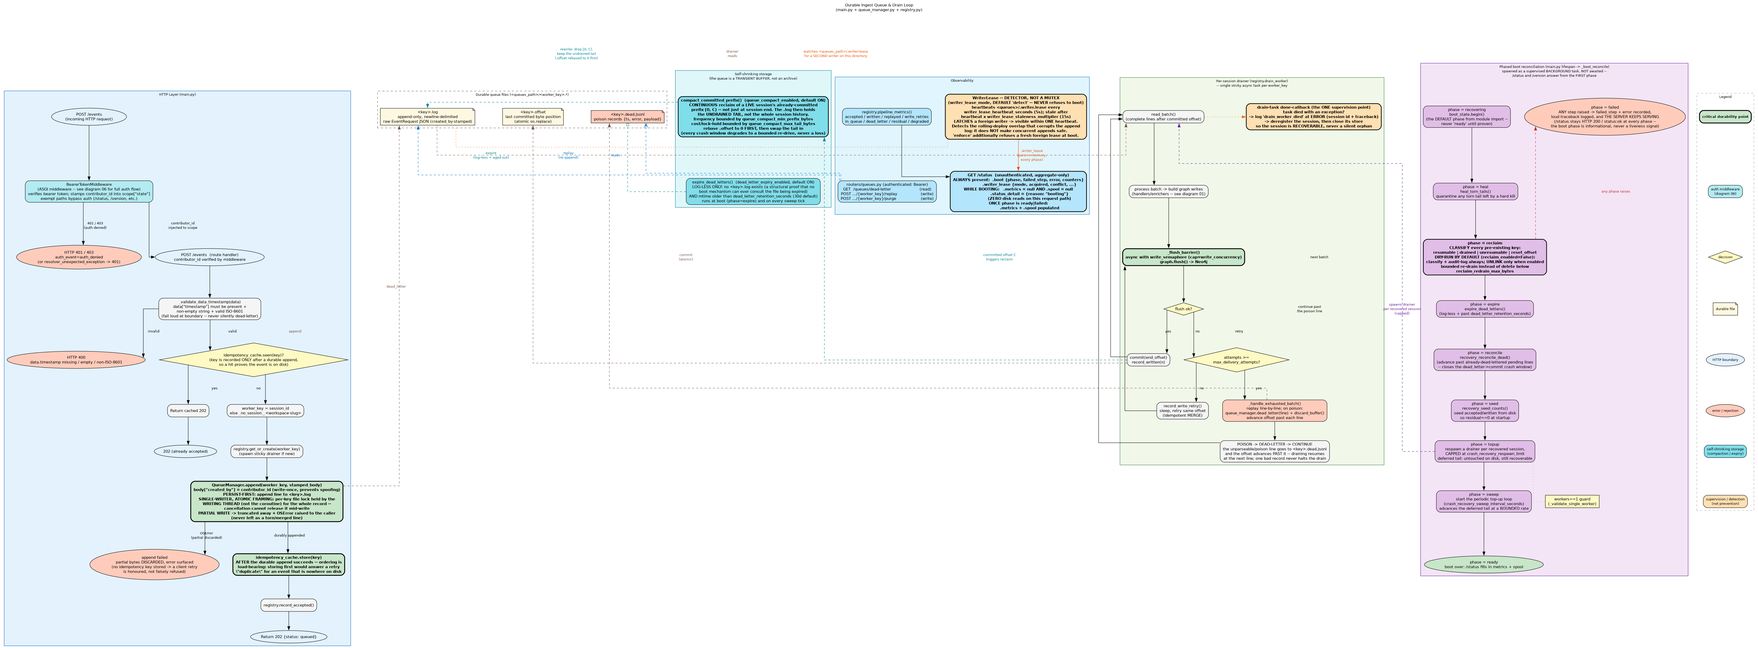
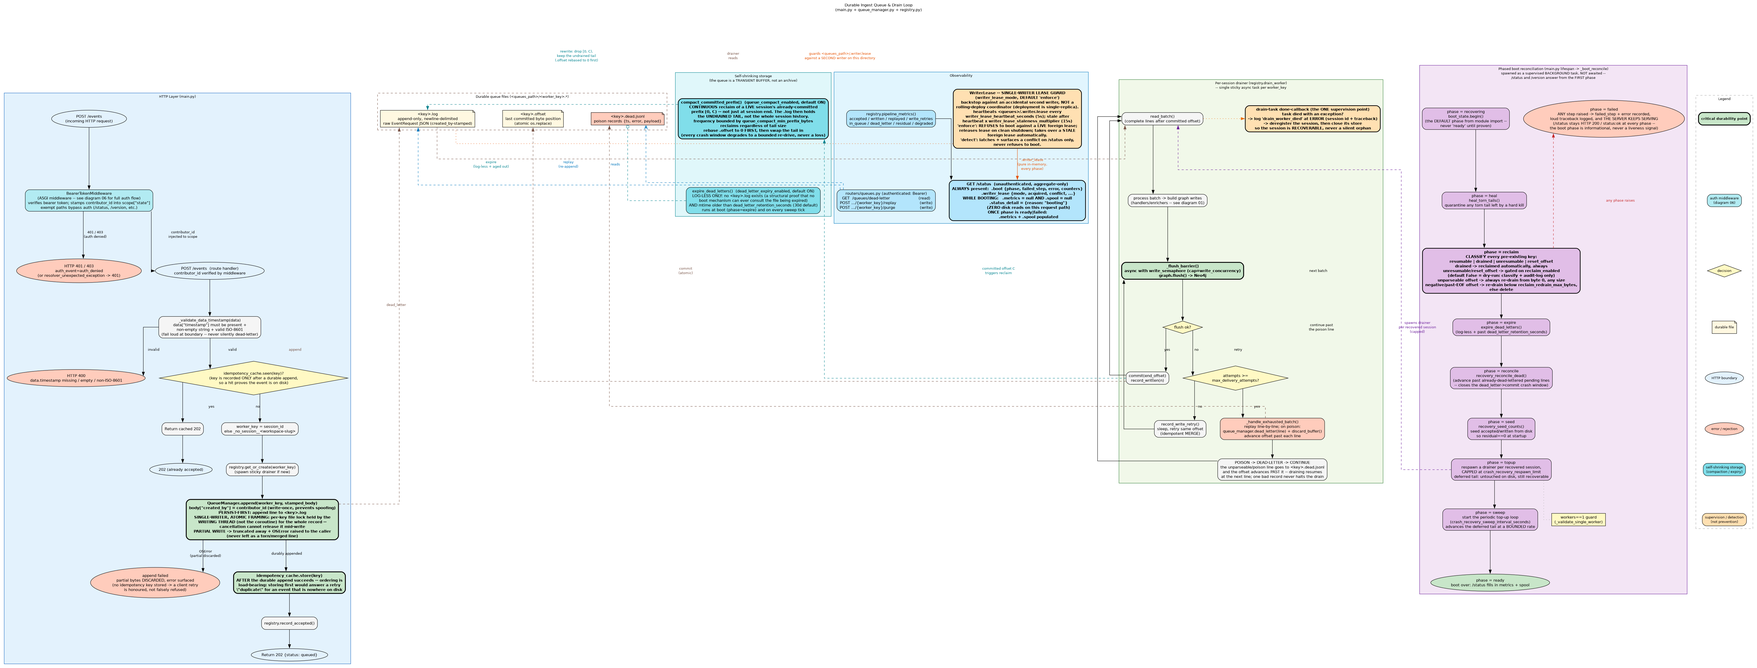
docs: align docs and ingest-queue diagram with shipped behavior
- writer lease documented as enforce-by-default single-writer guard (refuses a live foreign writer, releases on clean shutdown, takes over a stale lease); drop the detect-default / "do not enable enforce" guidance
- remove references to the removed /queues/gc operator endpoints
- fully-drained logs are reclaimed automatically at boot; unresumable/reset-offset actions remain gated on reclaim_enabled
- correct offset handling: an unparseable offset re-drains from byte 0 at any size, never deleted
- drop the removed compaction tail-size cap; regenerate 05-durable-ingest-queue.png

🤖 Generated with [Amplifier](https://github.com/microsoft/amplifier)

diff --git a/README.md b/README.md
@@ -330,7 +330,7 @@ Full runtime onboarding/offboarding runbook and the `/admin/*` API:
 | Method | Path | Description |
 |--------|------|-------------|
 | `POST` | `/events` | Ingest a session event (returns 202 immediately) |
-| `GET` | `/status` | Server health, active sessions, completed history, error counts, `neo4j_connected`, `neo4j_query_connected` (reflects the read/cypher_query driver's connection health), `neo4j_url`, `neo4j_browser_url`, plus `boot` (boot-reconciliation phase + counters), `writer_lease` (queue-directory writer-lease detector), `spool` (aggregate spool footprint) and `metrics` (aggregate conservation counters). `boot` and `writer_lease` are always present; **`metrics` and `spool` are `null` while the server is still booting**, and `status_detail` is then `{"reason": "booting"}`. HTTP `200` and `status: "ok"` at every boot phase — the boot phase is informational, never a liveness signal |
+| `GET` | `/status` | Server health, active sessions, completed history, error counts, `neo4j_connected`, `neo4j_query_connected` (reflects the read/cypher_query driver's connection health), `neo4j_url`, `neo4j_browser_url`, plus `boot` (boot-reconciliation phase + counters), `writer_lease` (queue-directory single-writer lease guard), `spool` (aggregate spool footprint) and `metrics` (aggregate conservation counters). `boot` and `writer_lease` are always present; **`metrics` and `spool` are `null` while the server is still booting**, and `status_detail` is then `{"reason": "booting"}`. HTTP `200` and `status: "ok"` at every boot phase — the boot phase is informational, never a liveness signal |
 | `GET` | `/version` | Server version (`{"version": "..."}`) — always unauthenticated |
 | `GET` | `/docs` | Swagger UI — always on (auth-exempt) |
 | `GET` | `/openapi.json` | OpenAPI spec — always on (auth-exempt) |
@@ -421,17 +421,17 @@ Values are resolved with this priority (highest first):
 | `AMPLIFIER_CONTEXT_INTELLIGENCE_SERVER_CRASH_RECOVERY_RESPAWN_LIMIT` | `crash_recovery_respawn_limit` | `8` | **Behaviour change for existing installs — this default was previously unbounded.** Ceiling on how many recovered sessions get a drainer respawned per boot/sweep pass. The remainder is *deferred*: left untouched on disk, still durable, and drained by a later sweep pass or the moment a new event for that session arrives. Deferral is never silent (a `WARNING` names the respawned/deferred counts). `null` restores unbounded; `0` disables automatic respawn at boot. Negative values are a hard startup error. |
 | `AMPLIFIER_CONTEXT_INTELLIGENCE_SERVER_CRASH_RECOVERY_SWEEP_INTERVAL_SECONDS` | `crash_recovery_sweep_interval_seconds` | `60` | **Behaviour change for existing installs — this default was previously 300.** Interval at which the deferred backlog is re-scanned and the recovered-drainer pool topped back up to the ceiling. Only runs when `crash_recovery_respawn_limit` is finite — change the two together or neither. `0` disables the sweep (the deferred tail then drains only on restart or on a new event). |
 | `AMPLIFIER_CONTEXT_INTELLIGENCE_SERVER_RECLAIM_ENABLED` | `reclaim_enabled` | `false` | Whether the boot-time reclaim pass may actually delete / reset anything. **Ships disabled**: boot still classifies every pre-existing queue key and logs the same audit line with `action=dry_run`, but nothing is unlinked. Boot once with this off, read the reclaim summary in the logs, reconcile it against expectations, then opt in. Surfaced on `/status` as `boot.reclaim_enabled`. |
-| `AMPLIFIER_CONTEXT_INTELLIGENCE_SERVER_RECLAIM_REDRAIN_MAX_BYTES` | `reclaim_redrain_max_bytes` | `67108864` (64 MiB) | Size ceiling under which a `.log` with an unusable `.offset` (unparseable, negative, past-EOF) is **re-drained from byte 0** instead of deleted — bounded, and idempotent by construction, so re-driving costs nothing. At or above the ceiling the `.log` is deleted instead. `0` means always delete. |
+| `AMPLIFIER_CONTEXT_INTELLIGENCE_SERVER_RECLAIM_REDRAIN_MAX_BYTES` | `reclaim_redrain_max_bytes` | `67108864` (64 MiB) | Size ceiling for a `.log` with a **negative or past-EOF** `.offset`: below the ceiling it is **re-drained from byte 0** instead of deleted — bounded, and idempotent by construction, so re-driving costs nothing. At or above the ceiling the `.log` is deleted instead. `0` means always delete. An **unparseable** `.offset` is a separate case and always re-drains from byte 0 at any size — never deleted. |
 | `AMPLIFIER_CONTEXT_INTELLIGENCE_SERVER_QUEUE_COMPACT_ENABLED` | `queue_compact_enabled` | `true` | Continuously reclaim a live session's already-committed prefix, so a `.log` holds the undrained tail rather than the whole session history. Turning it off is a config change + restart (a kill switch, not a live toggle). |
 | `AMPLIFIER_CONTEXT_INTELLIGENCE_SERVER_QUEUE_COMPACT_MIN_PREFIX_BYTES` | `queue_compact_min_prefix_bytes` | `8388608` (8 MiB) | Bounds compaction **frequency** on a continuously busy session: below this many committed bytes the rewrite is skipped. The idle path closes the remaining gap for free the moment the session goes quiet. `0` is a valid explicit opt-out; negative is a hard startup error. |
 | `AMPLIFIER_CONTEXT_INTELLIGENCE_SERVER_DEAD_LETTER_EXPIRY_ENABLED` | `dead_letter_expiry_enabled` | `true` | Expire dead-letter files that have **no `.log` beside them** once they age past the retention window below. Deliberately independent of `reclaim_enabled`: the predicate here is two plain filesystem facts, not a heuristic classification. |
 | `AMPLIFIER_CONTEXT_INTELLIGENCE_SERVER_DEAD_LETTER_RETENTION_SECONDS` | `dead_letter_retention_seconds` | `2592000.0` (30 days) | How long a log-less `.dead.jsonl` survives (by mtime) before expiry — long enough to notice it via `GET /queues/dead-letter` and purge or replay it, short enough that it cannot accumulate forever. `<= 0` disables expiry outright; negative is a hard startup error. |
-| `AMPLIFIER_CONTEXT_INTELLIGENCE_SERVER_WRITER_LEASE_MODE` | `writer_lease_mode` | `detect` | Writer-lease detector for the queue directory. `detect` (default) acquires the lease best-effort, heartbeats it, and latches + surfaces a conflict on `/status.writer_lease` — but **never refuses to boot**. `enforce` additionally refuses to boot against a fresh foreign lease. `off` disables the detector. See [docs/operational-hardening.md](docs/operational-hardening.md) — **leave this at `detect`**; `enforce` is present but not yet cleared for use. |
-| `AMPLIFIER_CONTEXT_INTELLIGENCE_SERVER_WRITER_LEASE_HEARTBEAT_SECONDS` | `writer_lease_heartbeat_seconds` | `5.0` | Lease renew + re-read interval. Sets the detection latency: a conflict becomes visible on `/status` within one heartbeat. Must be `> 0`. |
+| `AMPLIFIER_CONTEXT_INTELLIGENCE_SERVER_WRITER_LEASE_MODE` | `writer_lease_mode` | `enforce` | Single-writer lease guard for the queue directory — a backstop against an accidental second writer, not a rolling-deploy coordinator (deployment is single-replica). `enforce` (default) **refuses to boot** against a *live* foreign lease, releases the lease on clean shutdown so a restart reacquires immediately, and takes over a *stale* foreign lease automatically once it ages past the staleness window. `detect` acquires the lease best-effort, heartbeats it, and only surfaces a conflict on `/status.writer_lease` — it never refuses to boot. `off` disables the guard. See [docs/operational-hardening.md](docs/operational-hardening.md). |
+| `AMPLIFIER_CONTEXT_INTELLIGENCE_SERVER_WRITER_LEASE_HEARTBEAT_SECONDS` | `writer_lease_heartbeat_seconds` | `5.0` | Lease renew + re-read interval. Under `detect`, sets how fast a conflict becomes visible on `/status` (within one heartbeat); under `enforce`, sets how fast a foreign takeover is noticed. Must be `> 0`. |
 | `AMPLIFIER_CONTEXT_INTELLIGENCE_SERVER_WRITER_LEASE_STALENESS_MULTIPLIER` | `writer_lease_staleness_multiplier` | `3.0` | Staleness window = heartbeat x this (15.0s at defaults). Must survive two consecutive missed ticks without a false "stale" verdict, so values **below `2.0` are a hard startup error**. |
 | `AMPLIFIER_CONTEXT_INTELLIGENCE_SERVER_WRITER_LEASE_CONFIRM_DELAY_SECONDS` | `writer_lease_confirm_delay_seconds` | `1.0` | Settle delay between writing the lease and the confirming re-read, to exceed write→other-reader visibility latency on a shared SMB mount. Must be `>= 0`. |
-| `AMPLIFIER_CONTEXT_INTELLIGENCE_SERVER_WRITER_LEASE_ACQUIRE_TIMEOUT_SECONDS` | `writer_lease_acquire_timeout_seconds` | `5.0` | Hard bound on an entire acquire (and, per tick, an entire renew), so a hung mount can never block startup or wedge the heartbeat. **Must exceed `writer_lease_confirm_delay_seconds`** — otherwise every acquire would time out and silently disarm the detector, so that combination is a hard startup error. |
-| `AMPLIFIER_CONTEXT_INTELLIGENCE_SERVER_WRITER_LEASE_FORCE_ACQUIRE` | `writer_lease_force_acquire` | `false` | One-boot operator escape hatch: take over a **fresh** foreign lease instead of refusing (`enforce`) or merely latching (`detect`). Logs a `WARNING` on every boot while set and is surfaced on `/status.writer_lease`, so leaving it on by accident is never silent. |
+| `AMPLIFIER_CONTEXT_INTELLIGENCE_SERVER_WRITER_LEASE_ACQUIRE_TIMEOUT_SECONDS` | `writer_lease_acquire_timeout_seconds` | `5.0` | Hard bound on an entire acquire (and, per tick, an entire renew), so a hung mount can never block startup or wedge the heartbeat. **Must exceed `writer_lease_confirm_delay_seconds`** — otherwise every acquire would time out and silently disarm the guard, so that combination is a hard startup error. |
+| `AMPLIFIER_CONTEXT_INTELLIGENCE_SERVER_WRITER_LEASE_FORCE_ACQUIRE` | `writer_lease_force_acquire` | `false` | One-boot operator escape hatch: take over a **fresh** (non-stale) foreign lease instead of refusing (`enforce`) or merely latching (`detect`). Logs a `WARNING` on every boot while set and is surfaced on `/status.writer_lease`, so leaving it on by accident is never silent. |
 | `AMPLIFIER_CONTEXT_INTELLIGENCE_SERVER_LOG_PATH` | `log_path` | `/data/logs/server.jsonl` | Structured log file path |
 | `AMPLIFIER_CONTEXT_INTELLIGENCE_SERVER_LOG_LEVEL` | `log_level` | `INFO` | Log level (`DEBUG`/`INFO`/`WARNING`/`ERROR`) |
 | `AMPLIFIER_CONTEXT_INTELLIGENCE_SERVER_SERVER_HOST` | `server_host` | `0.0.0.0` | Bind host |

diff --git a/docs/operational-hardening.md b/docs/operational-hardening.md
@@ -351,7 +351,7 @@ runs out of memory. It guarantees the failure is **bounded and attributable**:
 | `StartLimitIntervalSec` / `StartLimitBurst` | An infinite restart loop burning CPU for days | The underlying failure — the unit stops in `failed` state and **stays down** until you fix it |
 | `write_concurrency: 4` | A backlog drain thundering Neo4j's transaction-memory ceiling | A backlog from forming in the first place |
 | Compaction + dead-letter expiry (on by default) | A *drained* session's bytes and orphaned poison records living on disk forever; a `.log` growing to the size of the whole session | **Undrained** data growing — a stalled drainer's tail is exactly what must not be touched; compaction shrinks nothing there |
-| Writer-lease detector (§8) | A rolling deploy silently running two writers on one queue directory with **no signal at all** | The corruption itself — it is a detector with a staleness tolerance, not a mutex. It makes the overlap visible, not safe |
+| Writer-lease guard (§8) | A second process (accidental/misconfigured, not a rolling deploy — deployment is single-replica) silently writing the same queue directory | Nothing left to prevent by default: `enforce` refuses to boot against a live foreign lease. A stale lease (holder gone) is taken over automatically after the staleness window |
 
 The point of every one of them is the same: convert a silent, unbounded,
 self-perpetuating failure into a loud, bounded, one-shot one that shows up in
@@ -366,26 +366,26 @@ restarts.**
 
 ---
 
-## 8. Writer-lease conflicts during a rolling deploy
+## 8. Writer-lease guard
 
-The durable append log is correct because **exactly one process writes the queue
-directory**, with per-key locking inside that process. A rolling or blue/green
-revision swap can briefly run the old and new revisions against the **same**
-mounted `/data`, and for that overlap the guarantee is void — torn or merged
-append lines can reappear with no signal whatsoever. That silence is what the
-writer lease removes.
+The durable append log is correct because **exactly one process writes the
+queue directory** (deployment is single-replica), with per-key locking inside
+that process serializing every record to one contiguous, newline-terminated
+line or not at all. The writer lease is a backstop against an accidental
+second writer — a stray or misconfigured process pointed at the same `/data`
+— not a rolling-deploy coordinator.
 
-**It is a detector, not a mutex.** Say this plainly to anyone reading
-`/status`: it does not make concurrent writes safe. It makes the overlap
-**visible** within one heartbeat. It has a staleness tolerance (heartbeat x
-multiplier — 15s at defaults), so two processes *can* both believe they hold the
-lease inside that window, and writes already in flight during an overlap are
-surfaced, not prevented.
+**The default mode is `enforce`.** It refuses to boot against a **live**
+foreign lease, so the second-writer overlap is prevented outright rather than
+merely reported. It releases the lease on clean shutdown, so a restart
+reacquires immediately, and it takes over a **stale** foreign lease
+automatically once the holder's heartbeat ages past the staleness window
+(heartbeat x multiplier — 15s at defaults) — an unclean exit recovers on its
+own after that window instead of crash-looping.
 
-**The default mode is `detect`, and it never refuses to boot.** It acquires the
-lease best-effort, heartbeats it, and latches the conflict onto `/status`.
-Refusing by default would deadlock a rolling deploy outright: the incoming
-revision could never become healthy while the outgoing one is still renewing.
+`detect` acquires the lease best-effort, heartbeats it, and only latches +
+surfaces a conflict on `/status.writer_lease` — it never refuses to boot.
+`off` disables the guard entirely.
 
 ```bash
 curl -s http://localhost:8000/status \
@@ -394,35 +394,29 @@ curl -s http://localhost:8000/status \
 
 | Field | Read it as |
 |-------|-----------|
-| `mode` | `detect` (default) / `enforce` / `off` |
+| `mode` | `enforce` (default) / `detect` / `off` |
 | `acquired` | whether this process currently believes it holds the lease |
-| `conflict` | **the alarm.** `true` = a foreign writer was observed |
+| `conflict` | **the alarm.** `true` = a foreign writer was observed (under `enforce` this means boot was refused; under `detect` it is observe-only) |
 | `conflict_source` | `boot` / `reacquire` / `runtime` — when it was seen (`runtime` = the lease was taken from a running process) |
 | `observed_owner`, `observed_at` | who, and when |
 | `took_over_stale`, `superseded_owner`, `superseded_age_seconds` | a *stale* lease was superseded — normal after an unclean exit, not a conflict |
-| `error` | the detector is **not armed** for this process (share fault, hung mount). Evidence of nothing — never a conflict |
+| `error` | the guard is **not armed** for this process (share fault, hung mount). Evidence of nothing — never a conflict |
 | `force_acquire` | the one-boot escape hatch is still set. Unset it |
-| `heartbeat_seconds`, `staleness_seconds`, `lease_age_seconds` | detection latency and tolerance |
+| `heartbeat_seconds`, `staleness_seconds`, `lease_age_seconds` | heartbeat interval and staleness tolerance |
 
 The matching log lines are `writer_lease_conflict` (ERROR) and, on a stale
 takeover, a `writer_lease` WARNING naming the superseded owner and its age.
 
-**On a conflict:** confirm you are not running two revisions/processes against
-one queue directory (see the single-instance invariant in `AGENTS.md`), and get
-down to one writer. A conflict latches — it stays visible after the overlap ends
-— so treat it as "this happened", and correlate `observed_at` with your deploy
+**On a conflict:** confirm you are not running two processes against one
+queue directory (see the single-instance invariant in `AGENTS.md`), and get
+down to one writer. A conflict latches — it stays visible after the overlap
+ends — so treat it as "this happened", and correlate `observed_at` with your
 timeline rather than assuming it is still happening.
 
-> **Do not enable `enforce`.** The mode exists and works — it additionally
-> refuses to boot against a fresh foreign lease — but turning it on requires a
-> deployed-mount smoke test that measures real cross-host clock skew and
-> write-visibility latency on the actual shared mount, and **that test has not
-> been run**. Until it has, `enforce` risks refusing a legitimate boot on
-> timing alone. Leave `writer_lease_mode: detect`.
->
-> `writer_lease_force_acquire` is likewise a **one-boot** escape hatch for when
-> you are certain the previous writer is gone. It logs a `WARNING` on every boot
-> while set and shows on `/status`; unset it immediately afterwards.
+> `writer_lease_force_acquire` is a **one-boot** escape hatch for when you are
+> certain the previous writer is gone but its lease hasn't gone stale yet. It
+> logs a `WARNING` on every boot while set and shows on `/status`; unset it
+> immediately afterwards.
 
 ---
 

diff --git a/AGENTS.md b/AGENTS.md
@@ -88,12 +88,12 @@ context_intelligence_server/      # FastAPI ingestion server
 ├── neo4j_store.py                # Managed-transaction Neo4j writes
 ├── blob_store.py                 # Async disk blob storage
 ├── idempotency.py                # Request dedupe (seen/store split — a key is stored only AFTER a durable append)
-├── writer_lease.py               # Queue-directory writer-lease DETECTOR (heartbeat + staleness; detect/enforce/off; surfaces on /status.writer_lease)
+├── writer_lease.py               # Single-writer lease guard for the queue directory (heartbeat + staleness; enforce/detect/off, default enforce; surfaces on /status.writer_lease)
 ├── handlers/                     # Event handlers (data_layer_1/2/3)
 │   ├── data_layer_1/             # Session/tool-call handlers
 │   ├── data_layer_2/             # Graph enrichment handlers
 │   └── data_layer_3/             # High-level insight handlers
-├── routers/                      # API routers (queues.py = dead-letter inspect/replay/purge + operator GC: GET /queues/gc preview, POST /queues/gc/apply; admin.py = /admin/* identity-map CRUD; version.py)
+├── routers/                      # API routers (queues.py = dead-letter inspect/replay/purge only \u2014 no operator GC endpoint; admin.py = /admin/* identity-map CRUD; version.py)
 ├── auth.py                       # Bearer-token auth middleware (StaticKeyResolver / EntraResolver via PrincipalResolver; BearerTokenMiddleware; admin-key recognition)
 ├── authz.py                      # Per-route capability gates (require_read / require_write)
 ├── identity_store.py             # Durable JSON identity map (write-file-then-swap, fail-closed load, live flat_dict)
@@ -438,8 +438,8 @@ with admin"). Runtime runbook: `docs/identity-management.md`.
 - **Append framing** — appends to one worker key are serialized by a per-key file lock (`_KeyGuard.file_lock`, held by the writing *thread*, not the coroutine), so a record lands as one contiguous newline-terminated line or not at all; a partial write is discarded and the error raised. The idempotency key is stored **only after** the durable append succeeds (`idempotency.py`: `seen()` / `store()` are separate) so a failed write plus a client retry is honoured, not falsely refused.
 - **Drain supervision** — a drain task's done-callback (`registry.py`) is the single supervision point: a task that dies logs `drain_worker_died` at ERROR with the session id + traceback, deregisters the session, and closes its store. A poison line is dead-lettered and the offset advanced past it, so draining continues.
 - **Boot phases** — boot recovery runs as a supervised background task (`main._boot_reconcile`), so `/status` and `/version` answer from the first phase. `status.BootState` (module singleton `boot_state`) tracks `recovering → heal → reclaim → expire → reconcile → seed → topup → sweep → ready`, or terminates at `failed` — and `failed` keeps serving. The phase is surfaced additively on `/status.boot`; while booting, `/status` does zero disk reads and reports `metrics`/`spool` as `null` with `status_detail.reason == "booting"`.
-- **Self-shrinking queue storage** — a live session's committed prefix is reclaimed continuously (compaction), and log-less dead-letters expire on an mtime window. `GET /queues/gc` (read, preview, never deletes, works during boot) and `POST /queues/gc/apply` (write, 409 until boot is `ready`/`failed`, bounded, per-item re-verified under the key lock) are the operator-facing reclaim path.
-- **Writer lease** — `writer_lease.py` detects a second process writing the same queue directory (the rolling-deploy overlap that voids the single-writer append guarantee) and surfaces it on `/status.writer_lease` within a heartbeat. It is a **detector, not a mutex**; default mode `detect` never refuses to boot.
+- **Self-shrinking queue storage** — a live session's committed prefix is reclaimed continuously (compaction); a fully-drained log is reclaimed automatically at boot regardless of `reclaim_enabled`; log-less dead-letters expire on an mtime window. There is no operator GC endpoint — reclamation is automatic. `reclaim_enabled` (default `false`) gates only the more aggressive boot reclaim of unresumable/reset-offset logs.
+- **Writer lease** — `writer_lease.py` is a single-writer lease guard on the queue directory: a backstop against an accidental second writer (not a rolling-deploy coordinator; deployment is single-replica). Default mode `enforce` refuses to boot against a *live* foreign lease, releases the lease on clean shutdown, and takes over a *stale* foreign lease automatically. `detect` only surfaces a conflict on `/status.writer_lease` within a heartbeat, never refusing to boot.
 - **Graph model** — session sub-labels: `RootSession`, `SubSession`, `ForkedSession`, `IncompleteSession` (health marker; not a terminal). Full schema with all node and edge types: see `docs/architecture/03-graph-model.dot` and `docs/architecture/README.md`.
 - **Blob storage** — Large event payloads are written to disk and referenced by URI to avoid graph bloat.
 - **Configuration** — Pydantic Settings reads from `server-config.yaml` first, then environment variables. See `config.py`.

diff --git a/docs/architecture/README.md b/docs/architecture/README.md
@@ -33,7 +33,7 @@ resolver and exempt-path set are wired at boot time.
 | 02 | [02-handler-architecture.dot](./02-handler-architecture.dot) | Handler class-level architecture |
 | 03 | [03-graph-model.dot](./03-graph-model.dot) | Neo4j property-graph schema |
 | 04 | [04-default-handler-flow.dot](./04-default-handler-flow.dot) | DefaultHandler internal decision flow |
-| 05 | [05-durable-ingest-queue.dot](./05-durable-ingest-queue.dot) | Durable ingest queue + drain loop — atomic per-key append, supervised drainers, phased boot, continuous prefix reclaim + dead-letter expiry, and the writer-lease detector (incl. auth middleware entry) |
+| 05 | [05-durable-ingest-queue.dot](./05-durable-ingest-queue.dot) | Durable ingest queue + drain loop — atomic per-key append, supervised drainers, phased boot, continuous prefix reclaim + dead-letter expiry, and the single-writer lease guard (incl. auth middleware entry) |
 | 06 | [06-auth-flow.dot](./06-auth-flow.dot) | **Per-request auth flow** — BearerTokenMiddleware → resolver dispatch → `/admin/*` branch or `post_events` |
 | 07 | [07-auth-startup.dot](./07-auth-startup.dot) | **Auth boot wiring** — mode selection, JWKS prefetch, fail-closed gate, exempt-path selection |
 | 08 | [08-identity-map-management.dot](./08-identity-map-management.dot) | **Runtime identity-map management** — admin API, `require_admin` gate, `IdentityStore` write-then-swap, live `flat_dict`, no-redeploy proof |
@@ -250,15 +250,15 @@ than all at once.
 **Storage shrinks itself.** A live session's
 already-committed prefix is rewritten away continuously (compaction), so a `.log` tracks the
 undrained tail rather than the whole session history — bounded in frequency by a minimum
-committed-prefix threshold and in per-rewrite cost by a maximum tail size, so one rewrite
-cannot hold a key's lock against `POST /events` for an unbounded time. Dead-letter files with
-no `.log` beside them expire on an mtime-based retention window. Both run automatically as
+committed-prefix threshold; there is no cap on the rewrite itself. A fully-drained log is
+reclaimed automatically at boot regardless of `reclaim_enabled`. Dead-letter files with
+no `.log` beside them expire on an mtime-based retention window. All three run automatically as
 part of normal operation and require no operator action.
 
 Observability follows the same split. `/status` carries the always-present `boot` block (phase
-plus reclaim/resume counters) and `writer_lease` block (the queue-directory writer-lease
-**detector** — it makes a two-writer overlap during a rolling deploy *visible* within a
-heartbeat; it is not a mutex and does not make concurrent appends safe). While the server is
+plus reclaim/resume counters) and `writer_lease` block (the queue-directory single-writer
+**lease guard** — a backstop against an accidental second writer, not a rolling-deploy
+coordinator; default mode `enforce` refuses to boot against a live foreign lease). While the server is
 still booting, `/status` performs zero disk reads on that request path: `metrics` and `spool`
 are present but `null`, with `status_detail.reason == "booting"`, and both populate once boot
 is over. Authenticated `/queues/dead-letter` endpoints still support inspect, replay, and

diff --git a/docs/azure-deployment.md b/docs/azure-deployment.md
@@ -769,9 +769,9 @@ fully-drained log is removed at session finalize; and a dead-letter file with no
 `.log` beside it expires on an mtime-based retention window. Steady-state
 `/data/queues` growth therefore tracks **undrained** data, not total ingest.
 
-These mechanisms run automatically and require no operator action. Reclamation
-of already-drained backlog, if ever needed, is an out-of-band maintenance
-operation run inside the container.
+These mechanisms run automatically and require no operator action — including
+reclamation of a fully-drained log, which happens at boot regardless of
+`reclaim_enabled`.
 
 ### The ONLY things that can lose `/data` — avoid during a version bump
 
